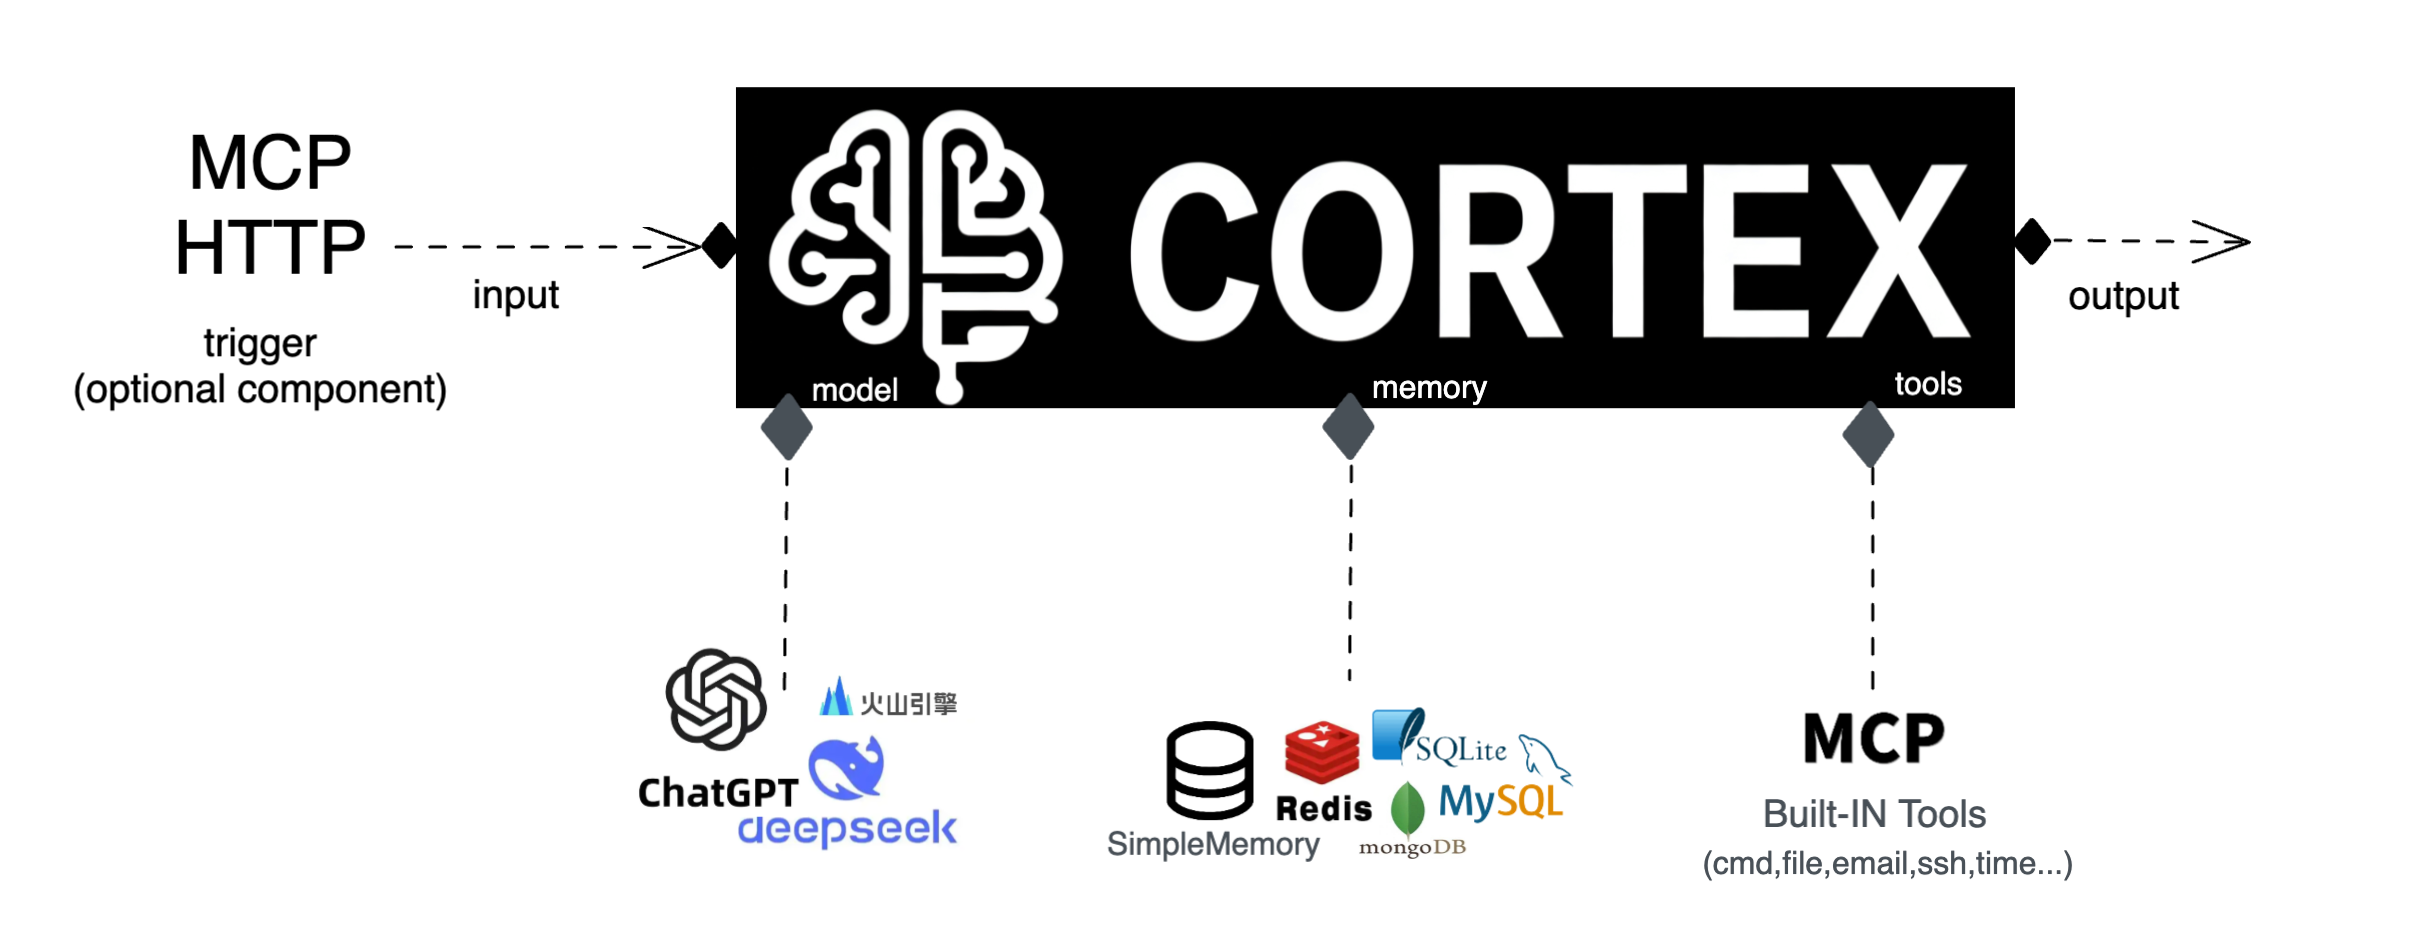
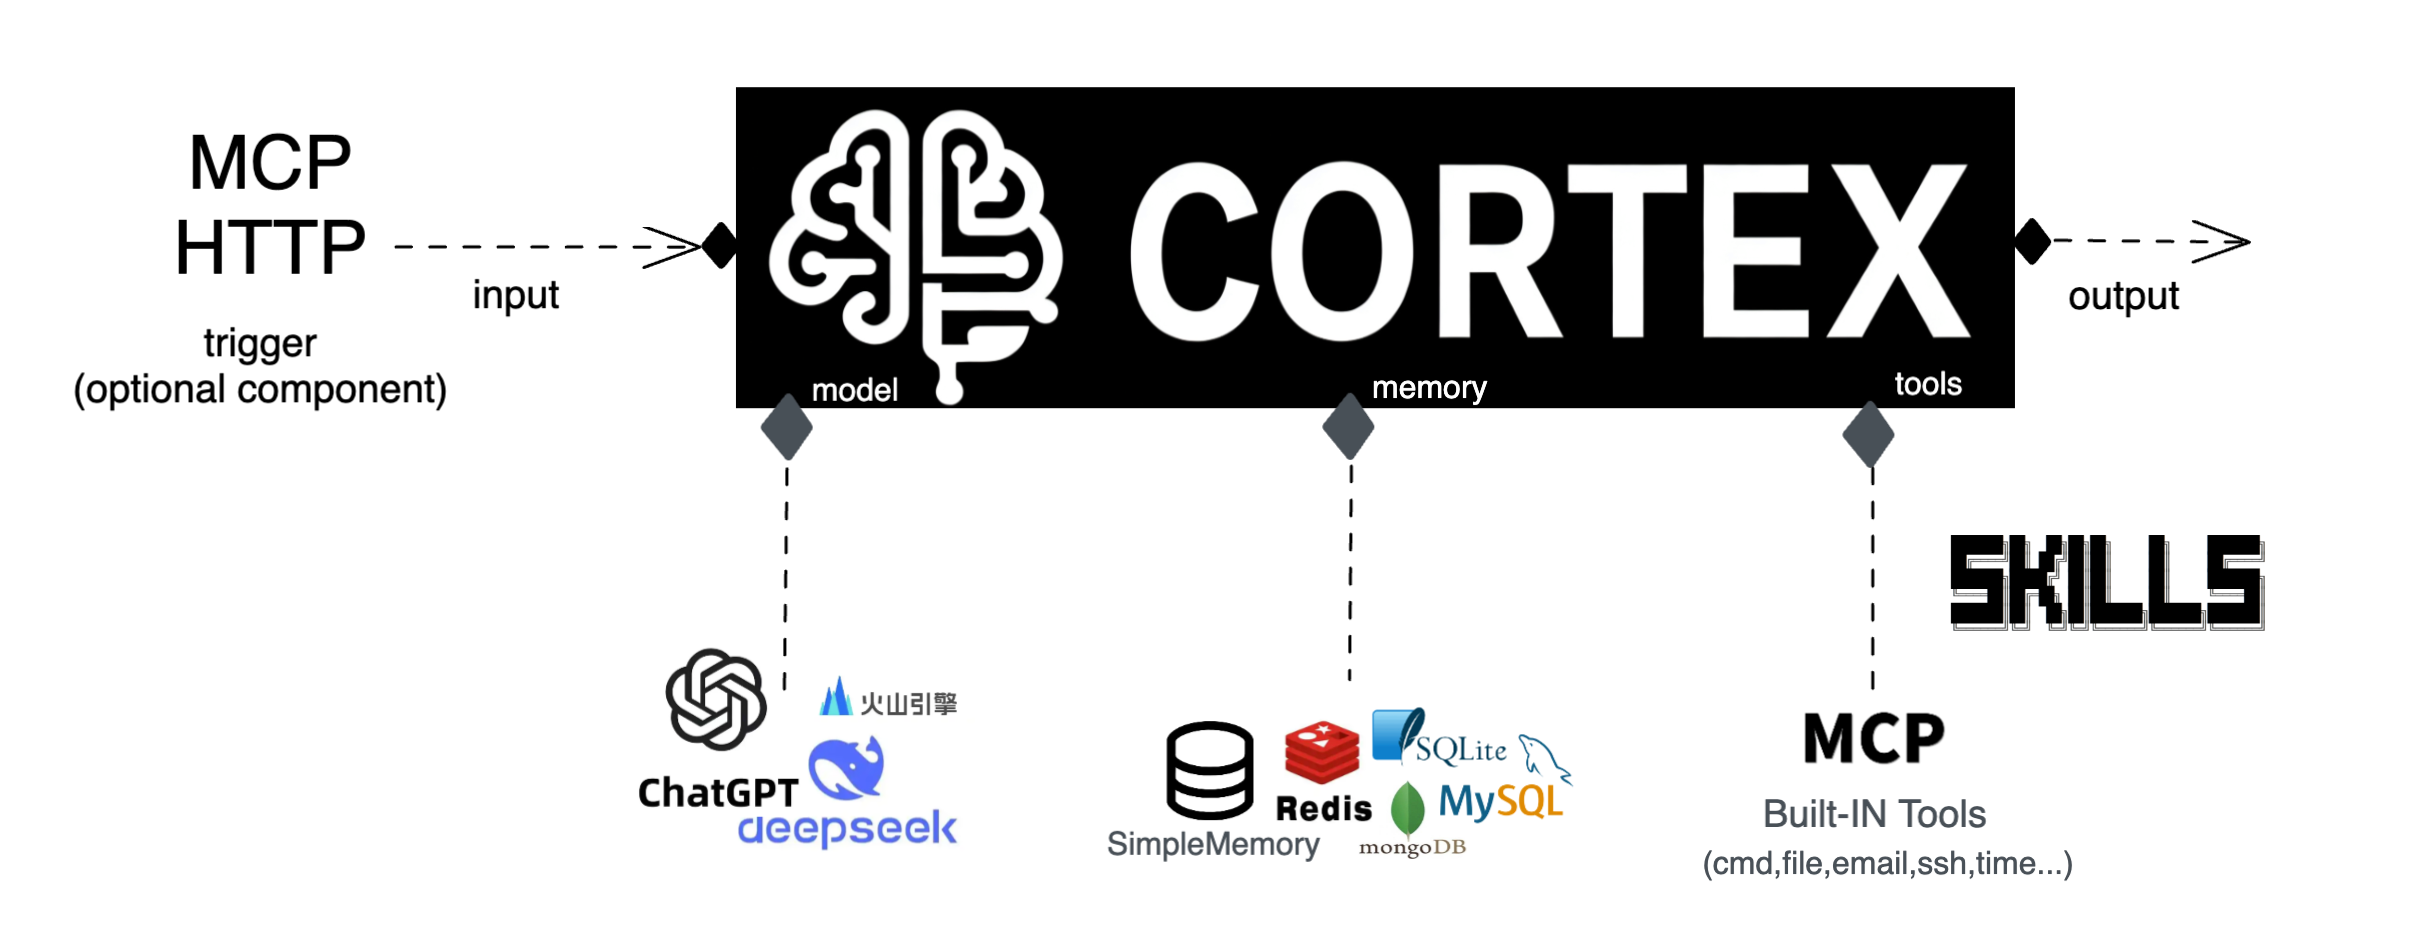
docs: add Agent Skills system documentation
- Add 'Agent Skills' section to README.md and README-CN.md explaining the filesystem-based skill system.
- Update Table of Contents to include the new section.
- Remove 'Web Search' from the tools list.
- Update docs/images/desc.png.

Changed region(s): [[0.8045, 0.5518, 0.9592, 0.6744]]

diff --git a/README-CN.md b/README-CN.md
@@ -13,6 +13,7 @@
   · <a href="#快速开始">快速开始</a>
   · <a href="#核心组件">核心组件</a>
   · <a href="#工具生态">工具生态</a>
+  · <a href="#技能系统-agent-skills">技能系统</a>
   · <a href="#记忆系统">记忆系统</a>
   · <a href="#示例">示例</a>
   · <a href="#许可证">许可证</a>
@@ -165,7 +166,6 @@ llmProvider, _ := llm.VolceClient("ak-...", "doubao-pro-32k")
 Cortex 内置了丰富的工具库，开箱即用：
 
 - **MCP 工具**：无缝连接 MCP Server，扩展无限可能。
-- **Web 搜索**：集成主流搜索引擎。
 - **文件操作**：安全的文件读写与管理。
 - **SSH**：远程服务器管理与命令执行。
 - **邮件**：发送 HTML/Text 邮件。
@@ -186,6 +186,36 @@ func (t *MyTool) Execute(input map[string]interface{}) (interface{}, error) {
     return "执行结果", nil
 }
 ```
+
+## 技能系统 (Agent Skills)
+
+Cortex 实现了一套独特的**基于文件系统的技能系统**，允许您在不重新编译代码的情况下扩展 Agent 的能力。
+
+### 工作原理
+
+1.  **定义**：在技能目录中创建 `SKILL.md` 文件（例如 `./skills/my-skill/SKILL.md`）。
+2.  **描述**：使用 Markdown 描述任务并提供可执行的示例（如 `curl` 命令、SQL 查询等）。
+3.  **发现**：Cortex 会自动扫描技能目录，并将可用技能注入到系统提示词中。
+4.  **执行**：当 Agent 需要执行相关任务时，它会严格遵循 `SKILL.md` 中的指引进行操作。
+
+### 技能示例 (`skills/weather/SKILL.md`)
+
+````markdown
+---
+name: weather
+description: Get current weather using command line tools.
+---
+
+# Weather
+
+To check the weather, use `curl` with wttr.in:
+
+```bash
+curl -s "wttr.in/New+York?format=3"
+```
+````
+
+这种方式使您可以轻松地将任何 CLI 工具、API 或脚本转化为 Agent 的原生能力。
 
 ## 记忆系统
 

diff --git a/README.md b/README.md
@@ -13,6 +13,7 @@
   · <a href="#quick-start">Quick Start</a>
   · <a href="#core-components">Core Components</a>
   · <a href="#tools">Tools</a>
+  · <a href="#agent-skills">Agent Skills</a>
   · <a href="#memory-system">Memory System</a>
   · <a href="#examples">Examples</a>
   · <a href="#license">License</a>
@@ -165,7 +166,6 @@ Fully compliant with the [Model Context Protocol (MCP)](https://modelcontextprot
 Extensive built-in tool library:
 
 - **MCP Tools**: Connect to any MCP Server.
-- **Web Search**: Integrated search engines.
 - **File Operations**: Safe filesystem access.
 - **SSH**: Remote server management.
 - **Email**: Send HTML/Text emails.
@@ -186,6 +186,36 @@ func (t *MyTool) Execute(input map[string]interface{}) (interface{}, error) {
     return "Result", nil
 }
 ```
+
+## Agent Skills
+
+Cortex implements a unique **filesystem-based skill system** that allows you to teach the agent new capabilities without recompiling code.
+
+### How it Works
+
+1.  **Define**: Create a `SKILL.md` file in a directory (e.g., `./skills/my-skill/SKILL.md`).
+2.  **Describe**: Use Markdown to describe the task and provide executable examples (e.g., `curl` commands, SQL queries).
+3.  **Discover**: Cortex automatically scans the skills directory and injects available skills into the system prompt.
+4.  **Execute**: When the agent needs to perform a task, it follows the instructions in your `SKILL.md`.
+
+### Example Skill (`skills/weather/SKILL.md`)
+
+````markdown
+---
+name: weather
+description: Get current weather using command line tools.
+---
+
+# Weather
+
+To check the weather, use `curl` with wttr.in:
+
+```bash
+curl -s "wttr.in/New+York?format=3"
+```
+````
+
+This approach allows you to leverage any CLI tool, API, or script as a first-class agent capability.
 
 ## Memory System
 
